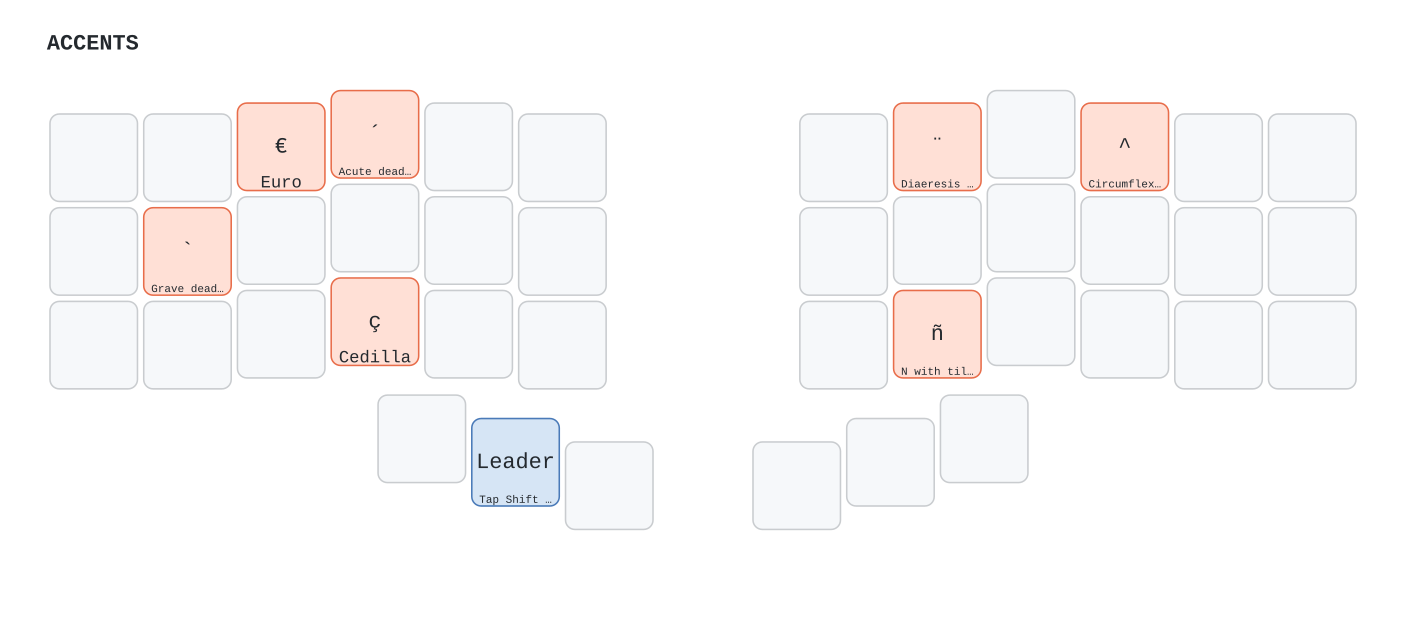
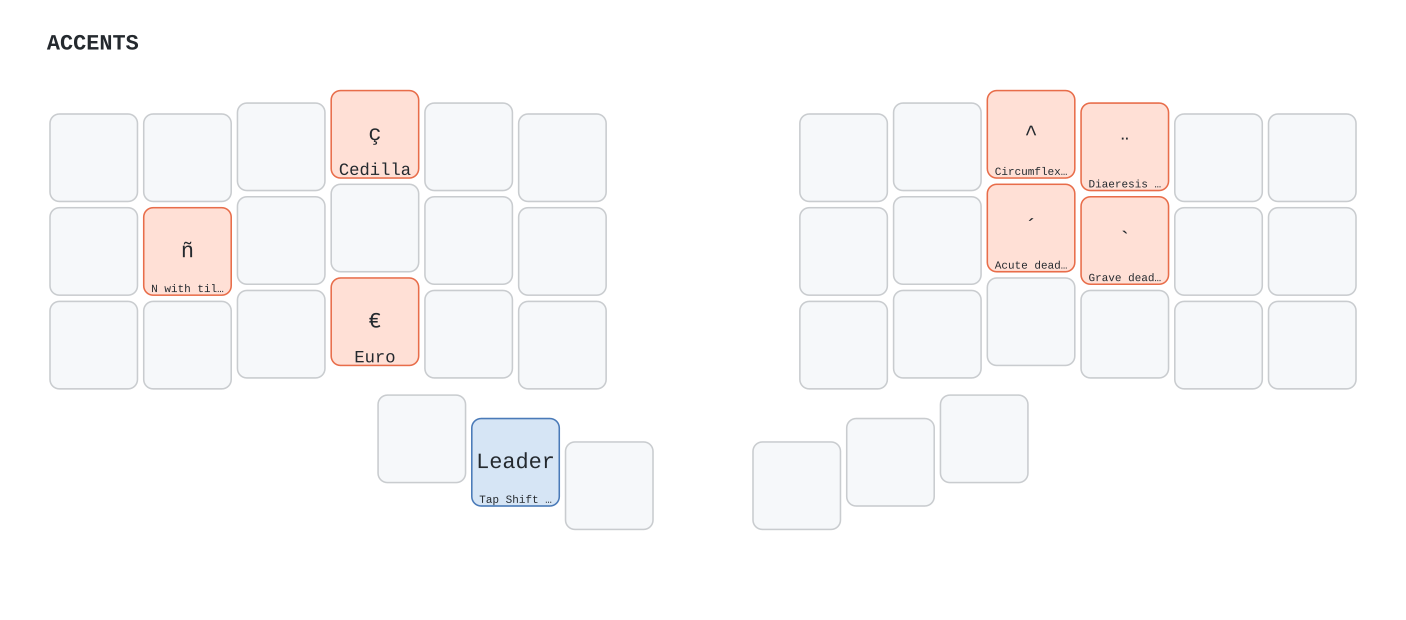
improve the accents layer

diff --git a/keyboards/6x3_3/keymaps/crafted/keymap.c b/keyboards/6x3_3/keymaps/crafted/keymap.c
@@ -367,6 +367,11 @@ void process_combo_event(uint16_t combo_index, bool pressed) {
     }
 }
 
+// End leader sequence immediately after first keypress (all sequences are single-key)
+bool leader_add_user(uint16_t keycode) {
+    return true;
+}
+
 // Leader key sequences for special characters and dead keys
 // W = Euro (€), C = Cedilla (ç), N = Ñ
 // E = acute (é), A = grave (à), U = diaeresis (ü), O = circumflex (ô)
@@ -377,7 +382,7 @@ void leader_end_user(void) {
     } else if (leader_sequence_one_key(KC_C)) {
         // Cedilla: ç
         tap_semkey_code(SK_CEDIL);
-    } else if (leader_sequence_one_key(KC_M)) {
+    } else if (leader_sequence_one_key(KC_N)) {
         // N with tilde: ñ
         tap_semkey_code(SK_NTILDE);
     } else if (leader_sequence_one_key(KC_E)) {